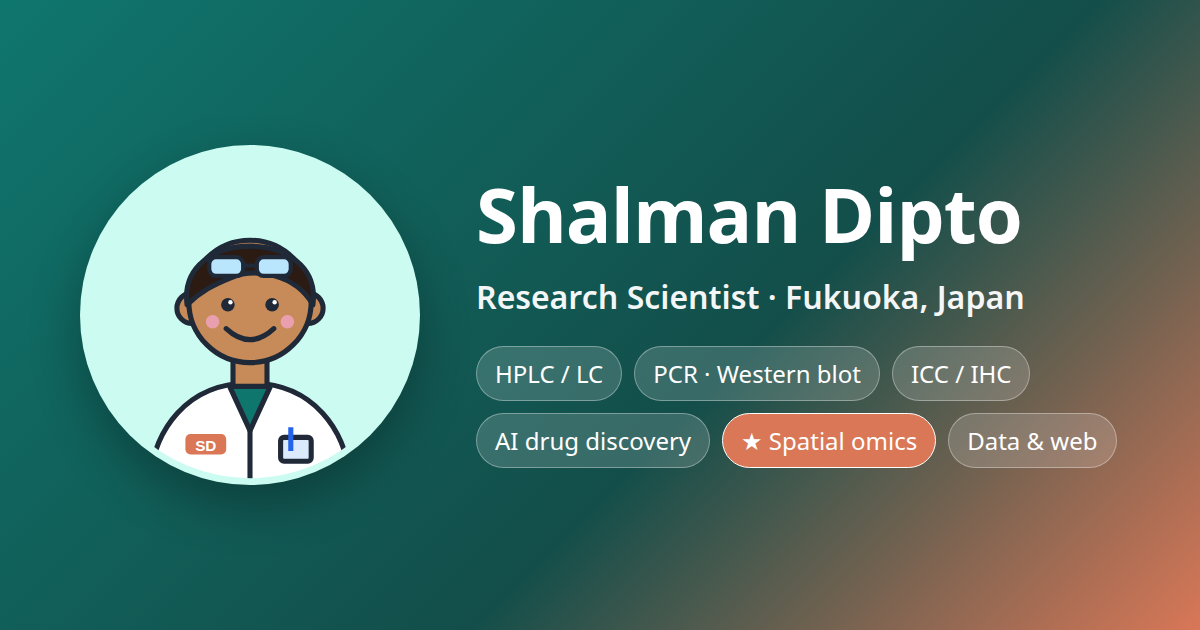
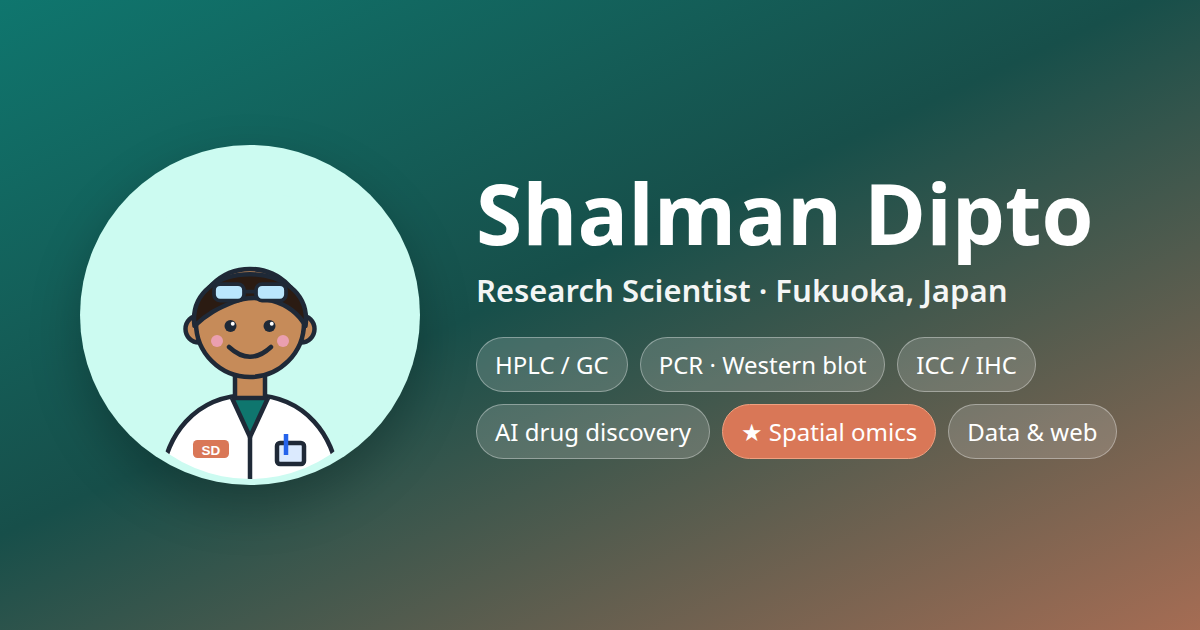
Correct analytical methods to HPLC/GC; self-introduction in English, Bangla and Japanese

diff --git a/i18n.js b/i18n.js
@@ -11,7 +11,7 @@ const TRANSLATIONS = {
     "Expertise": "দক্ষতা",
     "Work": "কাজ",
     "Experience": "অভিজ্ঞতা",
-    "Japanese intro": "জাপানি ভাষায় পরিচিতি",
+    "Introduction": "পরিচিতি",
     "Contact": "যোগাযোগ",
     "<span class=\"dot\"></span> Research Scientist · Fukuoka, Japan": "<span class=\"dot\"></span> রিসার্চ সায়েন্টিস্ট · ফুকুওকা, জাপান",
     "Hi, I'm <span class=\"grad\">Shalman Dipto</span>.": "হ্যালো, আমি <span class=\"grad\">Shalman Dipto</span>।",
@@ -45,7 +45,7 @@ const TRANSLATIONS = {
     "Samples": "নমুনা",
     "cell culture, tissue, formulations": "সেল কালচার, টিস্যু, ফর্মুলেশন",
     "Wet lab": "ওয়েট ল্যাব",
-    "HPLC / LC · PCR · western blot": "HPLC / LC · PCR · ওয়েস্টার্ন ব্লট",
+    "HPLC / GC · PCR · western blot": "HPLC / GC · PCR · ওয়েস্টার্ন ব্লট",
     "Imaging": "ইমেজিং",
     "fluorescence microscopy · ICC / IHC · spatial omics": "ফ্লুরোসেন্স মাইক্রোস্কোপি · ICC / IHC · স্প্যাটিয়াল ওমিক্স",
     "Segmentation": "সেগমেন্টেশন",
@@ -60,7 +60,7 @@ const TRANSLATIONS = {
     "Next-generation omics (spatial omics)": "নেক্সট-জেনারেশন ওমিক্স (স্প্যাটিয়াল ওমিক্স)",
     "Research assistance in collaboration with <strong><a href=\"https://omi-core.com/\" rel=\"noopener\">OmiCore Inc.</a></strong>: improving <strong>cell segmentation</strong> techniques based on the raw data, and detailed analysis across <strong>transcriptomics, proteomics, lipidomics and metabolomics</strong>.": "<strong><a href=\"https://omi-core.com/\" rel=\"noopener\">OmiCore Inc.</a></strong>-এর সাথে যৌথভাবে গবেষণা সহায়তা: কাঁচা ডেটার ভিত্তিতে <strong>সেল সেগমেন্টেশন</strong> পদ্ধতির উন্নয়ন, এবং <strong>ট্রান্সক্রিপ্টোমিক্স, প্রোটিওমিক্স, লিপিডোমিক্স ও মেটাবোলোমিক্স</strong> জুড়ে বিস্তারিত বিশ্লেষণ।",
     "Analytical chemistry": "অ্যানালিটিক্যাল কেমিস্ট্রি",
-    "Separation and quantification of compounds by <strong>HPLC</strong> and other <strong>liquid chromatography (LC)</strong> methods, following quality standards for reliable, traceable results.": "<strong>HPLC</strong> ও অন্যান্য <strong>লিকুইড ক্রোমাটোগ্রাফি (LC)</strong> পদ্ধতিতে যৌগ পৃথকীকরণ ও পরিমাণ নির্ণয় - নির্ভরযোগ্য ও যাচাইযোগ্য ফলাফলের জন্য মান-নির্দেশিকা মেনে।",
+    "Separation and quantification of compounds by <strong>HPLC</strong> (high-performance liquid chromatography) and <strong>GC</strong> (gas chromatography), following quality standards for reliable, traceable results.": "<strong>HPLC</strong> (হাই-পারফরম্যান্স লিকুইড ক্রোমাটোগ্রাফি) ও <strong>GC</strong> (গ্যাস ক্রোমাটোগ্রাফি) পদ্ধতিতে যৌগ পৃথকীকরণ ও পরিমাণ নির্ণয় - নির্ভরযোগ্য ও যাচাইযোগ্য ফলাফলের জন্য মান-নির্দেশিকা মেনে।",
     "Molecular &amp; cell biology": "মলিকুলার ও সেল বায়োলজি",
     "DNA and protein analysis: <strong>PCR</strong> with gel imaging, <strong>western blotting</strong> of phospho-proteins normalised to β-actin, and <strong>immunocytochemistry / immunohistochemistry</strong> (ICC/IHC) with multichannel fluorescence microscopy (40×, z-stacks), including image quantification.": "ডিএনএ ও প্রোটিন বিশ্লেষণ: জেল ইমেজিংসহ <strong>PCR</strong>, β-actin-এ নরমালাইজ করা ফসফো-প্রোটিনের <strong>ওয়েস্টার্ন ব্লটিং</strong>, এবং মাল্টিচ্যানেল ফ্লুরোসেন্স মাইক্রোস্কোপি (40×, z-stack) দিয়ে <strong>ইমিউনোসাইটোকেমিস্ট্রি / ইমিউনোহিস্টোকেমিস্ট্রি</strong> (ICC/IHC), ইমেজ কোয়ান্টিফিকেশনসহ।",
     "Hands-on <strong>cell culture</strong> of human and mouse lines: dose-response treatments, receptor-inhibitor studies and conditioned-medium experiments.": "মানুষ ও ইঁদুরের সেল লাইনে হাতে-কলমে <strong>সেল কালচার</strong>: ডোজ-রেসপন্স ট্রিটমেন্ট, রিসেপ্টর-ইনহিবিটর গবেষণা এবং কন্ডিশনড-মিডিয়াম পরীক্ষা।",
@@ -121,11 +121,15 @@ const TRANSLATIONS = {
     "2024 – 2025": "২০২৪ – ২০২৫",
     "Quality Control (QC) Officer": "কোয়ালিটি কন্ট্রোল (QC) অফিসার",
     "Incepta Pharmaceuticals Ltd. · Bangladesh": "Incepta Pharmaceuticals Ltd. · বাংলাদেশ",
-    "Quality control in a pharmaceutical manufacturing environment: analytical testing (HPLC / LC) and GMP documentation.": "ওষুধ উৎপাদন পরিবেশে কোয়ালিটি কন্ট্রোল: অ্যানালিটিক্যাল টেস্টিং (HPLC / LC) ও GMP ডকুমেন্টেশন।",
+    "Quality control in a pharmaceutical manufacturing environment: analytical testing (HPLC / GC) and GMP documentation.": "ওষুধ উৎপাদন পরিবেশে কোয়ালিটি কন্ট্রোল: অ্যানালিটিক্যাল টেস্টিং (HPLC / GC) ও GMP ডকুমেন্টেশন।",
     "Bachelor &amp; research<!-- ADD: years -->": "স্নাতক ও গবেষণা",
     "Bachelor in Pharmacy, then Researcher": "ফার্মেসিতে স্নাতক, তারপর গবেষক",
     "Department of Pharmacy, University of Rajshahi · Rajshahi, Bangladesh": "ফার্মেসি বিভাগ, রাজশাহী বিশ্ববিদ্যালয় · রাজশাহী, বাংলাদেশ",
     "Pharmacy degree followed by research work in the department.": "ফার্মেসিতে ডিগ্রি, তারপর একই বিভাগে গবেষণা।",
+    "Self-introduction": "আত্মপরিচয়",
+    "Nice to meet you": "পরিচিত হয়ে আনন্দিত",
+    "My name is Shalman Dipto. <span id=\"intro-career\">Since December 2026, I have been working as a Research Scientist at OmiCore Inc. in Fukuoka. Before that, I was a researcher at the <a href=\"https://www.reoken.com/\" rel=\"noopener\">Institute of Rheological Functions of Foods</a>, and before that I worked in quality control at Incepta Pharmaceuticals in Bangladesh.</span> I earned my bachelor's degree at the Department of Pharmacy, University of Rajshahi, where I also did research. My specialities are analytical chemistry (HPLC, GC), molecular biology (PCR, western blotting, immunocytochemistry / immunohistochemistry), AI-driven drug discovery, and next-generation (spatial) omics analysis in collaboration with OmiCore Inc. I look forward to working with you.": "আমার নাম Shalman Dipto। <span id=\"intro-career\">২০২৬ সালের ডিসেম্বর থেকে আমি ফুকুওকার OmiCore Inc.-এ রিসার্চ সায়েন্টিস্ট হিসেবে কাজ করছি। এর আগে আমি <a href=\"https://www.reoken.com/\" rel=\"noopener\">Institute of Rheological Functions of Foods</a>-এ গবেষক ছিলাম, আর তারও আগে বাংলাদেশের Incepta Pharmaceuticals-এ কোয়ালিটি কন্ট্রোলে কাজ করেছি।</span> রাজশাহী বিশ্ববিদ্যালয়ের ফার্মেসি বিভাগ থেকে স্নাতক ডিগ্রি অর্জন করেছি এবং সেখানে গবেষণাতেও যুক্ত ছিলাম। আমার বিশেষজ্ঞতার ক্ষেত্র হলো অ্যানালিটিক্যাল কেমিস্ট্রি (HPLC, GC), মলিকুলার বায়োলজি (PCR, ওয়েস্টার্ন ব্লটিং, ইমিউনোসাইটোকেমিস্ট্রি / ইমিউনোহিস্টোকেমিস্ট্রি), এআই-ভিত্তিক ওষুধ আবিষ্কার, এবং OmiCore Inc.-এর সাথে যৌথ গবেষণায় নেক্সট-জেনারেশন (স্প্যাটিয়াল) ওমিক্স বিশ্লেষণ। আপনার সাথে কাজ করার অপেক্ষায় রইলাম।",
+    "@introIncoming": "বর্তমানে আমি <a href=\"https://www.reoken.com/\" rel=\"noopener\">Institute of Rheological Functions of Foods</a>-এ গবেষক হিসেবে কাজ করছি, এবং ২০২৬ সালের ডিসেম্বর থেকে ফুকুওকার OmiCore Inc.-এ রিসার্চ সায়েন্টিস্ট হিসেবে যোগ দেব। এর আগে বাংলাদেশের Incepta Pharmaceuticals-এ কোয়ালিটি কন্ট্রোলে কাজ করেছি।",
     "Happy to connect with fellow researchers and anyone interested in omics, image analysis or drug discovery.": "গবেষক সহকর্মী এবং ওমিক্স, ইমেজ বিশ্লেষণ বা ওষুধ আবিষ্কারে আগ্রহী যে কারও সাথে যুক্ত হতে পেরে আনন্দিত হব।",
     "Email me": "ইমেইল করুন",
     "© <span id=\"year\">2026</span> Shalman Dipto · Fukuoka, Japan · Built with plain HTML, CSS &amp; JS": "© <span id=\"year\">2026</span> Shalman Dipto · ফুকুওকা, জাপান · সাধারণ HTML, CSS ও JS দিয়ে তৈরি"
@@ -138,7 +142,7 @@ const TRANSLATIONS = {
     "Expertise": "専門分野",
     "Work": "実績",
     "Experience": "経歴",
-    "Japanese intro": "自己紹介",
+    "Introduction": "自己紹介",
     "Contact": "お問い合わせ",
     "<span class=\"dot\"></span> Research Scientist · Fukuoka, Japan": "<span class=\"dot\"></span> 研究員 · 日本・福岡",
     "Hi, I'm <span class=\"grad\">Shalman Dipto</span>.": "こんにちは、<span class=\"grad\"><span class=\"nowrap\">シャルマン</span>・<span class=\"nowrap\">ディプト</span></span>です。",
@@ -172,7 +176,7 @@ const TRANSLATIONS = {
     "Samples": "サンプル",
     "cell culture, tissue, formulations": "細胞培養・組織・製剤",
     "Wet lab": "ウェットラボ",
-    "HPLC / LC · PCR · western blot": "HPLC / LC · PCR · ウェスタンブロット",
+    "HPLC / GC · PCR · western blot": "HPLC / GC · PCR · ウェスタンブロット",
     "Imaging": "イメージング",
     "fluorescence microscopy · ICC / IHC · spatial omics": "蛍光顕微鏡 · ICC / IHC · 空間オミクス",
     "Segmentation": "セグメンテーション",
@@ -187,7 +191,7 @@ const TRANSLATIONS = {
     "Next-generation omics (spatial omics)": "次世代オミクス（空間オミクス）",
     "Research assistance in collaboration with <strong><a href=\"https://omi-core.com/\" rel=\"noopener\">OmiCore Inc.</a></strong>: improving <strong>cell segmentation</strong> techniques based on the raw data, and detailed analysis across <strong>transcriptomics, proteomics, lipidomics and metabolomics</strong>.": "<strong><a href=\"https://omi-core.com/\" rel=\"noopener\">OmiCore Inc.</a></strong>との共同研究による研究支援：生データに基づく<strong>細胞セグメンテーション</strong>手法の改良、および<strong>トランスクリプトミクス・プロテオミクス・リピドミクス・メタボロミクス</strong>にわたる詳細な解析。",
     "Analytical chemistry": "分析化学",
-    "Separation and quantification of compounds by <strong>HPLC</strong> and other <strong>liquid chromatography (LC)</strong> methods, following quality standards for reliable, traceable results.": "<strong>HPLC</strong>をはじめとする<strong>液体クロマトグラフィー（LC）</strong>による化合物の分離・定量。品質基準に沿って、信頼性とトレーサビリティのある結果を出します。",
+    "Separation and quantification of compounds by <strong>HPLC</strong> (high-performance liquid chromatography) and <strong>GC</strong> (gas chromatography), following quality standards for reliable, traceable results.": "<strong>HPLC</strong>（高速液体クロマトグラフィー）と<strong>GC</strong>（ガスクロマトグラフィー）による化合物の分離・定量。品質基準に沿って、信頼性とトレーサビリティのある結果を出します。",
     "Molecular &amp; cell biology": "分子生物学・細胞生物学",
     "DNA and protein analysis: <strong>PCR</strong> with gel imaging, <strong>western blotting</strong> of phospho-proteins normalised to β-actin, and <strong>immunocytochemistry / immunohistochemistry</strong> (ICC/IHC) with multichannel fluorescence microscopy (40×, z-stacks), including image quantification.": "DNA・タンパク質解析：ゲル撮影を含む<strong>PCR</strong>、β-アクチンで正規化したリン酸化タンパク質の<strong>ウェスタンブロット</strong>、多チャンネル蛍光顕微鏡（40×、Zスタック）による<strong>免疫細胞化学・免疫組織化学</strong>（ICC/IHC）と画像定量。",
     "Hands-on <strong>cell culture</strong> of human and mouse lines: dose-response treatments, receptor-inhibitor studies and conditioned-medium experiments.": "ヒト・マウス細胞株の<strong>細胞培養</strong>の実務経験：用量反応試験、受容体阻害剤試験、馴化培地を用いた実験。",
@@ -248,11 +252,15 @@ const TRANSLATIONS = {
     "2024 – 2025": "2024年 – 2025年",
     "Quality Control (QC) Officer": "品質管理（QC）担当",
     "Incepta Pharmaceuticals Ltd. · Bangladesh": "Incepta Pharmaceuticals Ltd. · バングラデシュ",
-    "Quality control in a pharmaceutical manufacturing environment: analytical testing (HPLC / LC) and GMP documentation.": "医薬品製造現場での品質管理：分析試験（HPLC / LC）とGMP文書管理。",
+    "Quality control in a pharmaceutical manufacturing environment: analytical testing (HPLC / GC) and GMP documentation.": "医薬品製造現場での品質管理：分析試験（HPLC / GC）とGMP文書管理。",
     "Bachelor &amp; research<!-- ADD: years -->": "学士課程・研究",
     "Bachelor in Pharmacy, then Researcher": "薬学士取得、その後研究員",
     "Department of Pharmacy, University of Rajshahi · Rajshahi, Bangladesh": "ラジシャヒ大学 薬学部 · バングラデシュ・ラジシャヒ",
     "Pharmacy degree followed by research work in the department.": "薬学の学位を取得後、同学部で研究に従事。",
+    "Self-introduction": "自己紹介",
+    "Nice to meet you": "はじめまして",
+    "My name is Shalman Dipto. <span id=\"intro-career\">Since December 2026, I have been working as a Research Scientist at OmiCore Inc. in Fukuoka. Before that, I was a researcher at the <a href=\"https://www.reoken.com/\" rel=\"noopener\">Institute of Rheological Functions of Foods</a>, and before that I worked in quality control at Incepta Pharmaceuticals in Bangladesh.</span> I earned my bachelor's degree at the Department of Pharmacy, University of Rajshahi, where I also did research. My specialities are analytical chemistry (HPLC, GC), molecular biology (PCR, western blotting, immunocytochemistry / immunohistochemistry), AI-driven drug discovery, and next-generation (spatial) omics analysis in collaboration with OmiCore Inc. I look forward to working with you.": "シャルマン・ディプトと申します。<span id=\"intro-career\">2026年12月より、福岡のオミコア株式会社（OmiCore Inc.）で研究員として働いております。以前は<a href=\"https://www.reoken.com/\" rel=\"noopener\">レオロジー機能食品研究所</a>で研究員として、その前はバングラデシュのIncepta Pharmaceuticalsで品質管理担当として勤務しておりました。</span>ラジシャヒ大学薬学部で学士号を取得し、研究にも携わりました。専門は分析化学（HPLC・GC）、分子生物学（PCR、ウェスタンブロット、免疫細胞化学・免疫組織化学）、AIを活用した創薬研究、そしてOmiCore Inc.との共同研究による次世代オミクス（空間オミクス）解析です。どうぞよろしくお願いいたします。",
+    "@introIncoming": "現在は<a href=\"https://www.reoken.com/\" rel=\"noopener\">レオロジー機能食品研究所</a>で研究員として勤務しており、2026年12月より福岡のオミコア株式会社（OmiCore Inc.）に研究員として着任予定です。その前は、バングラデシュのIncepta Pharmaceuticalsで品質管理担当として勤務しておりました。",
     "Happy to connect with fellow researchers and anyone interested in omics, image analysis or drug discovery.": "研究者の方や、オミクス・画像解析・創薬に関心のある方とのつながりを歓迎します。",
     "Email me": "メールを送る",
     "© <span id=\"year\">2026</span> Shalman Dipto · Fukuoka, Japan · Built with plain HTML, CSS &amp; JS": "© <span id=\"year\">2026</span> Shalman Dipto · 福岡 · HTML・CSS・JSのみで制作"

diff --git a/index.html b/index.html
@@ -30,7 +30,7 @@
       <a href="#research">Expertise</a>
       <a href="#work">Work</a>
       <a href="#experience">Experience</a>
-      <a href="#japanese">Japanese intro</a>
+      <a href="#intro">Introduction</a>
       <a class="nav-cta" href="#contact">Contact</a>
     </nav>
     <div class="lang-switch" role="group" aria-label="Language">
@@ -79,7 +79,7 @@
       <p class="muted center">I can work at every step - from the bench to the final figure.</p>
       <ol class="pipeline">
         <li class="reveal"><img src="assets/step-sample.svg" alt="" width="120" height="100"><b>Samples</b><span>cell culture, tissue, formulations</span></li>
-        <li class="reveal"><img src="assets/step-wetlab.svg" alt="" width="120" height="100"><b>Wet lab</b><span>HPLC / LC · PCR · western blot</span></li>
+        <li class="reveal"><img src="assets/step-wetlab.svg" alt="" width="120" height="100"><b>Wet lab</b><span>HPLC / GC · PCR · western blot</span></li>
         <li class="reveal"><img src="assets/step-imaging.svg" alt="" width="120" height="100"><b>Imaging</b><span>fluorescence microscopy · ICC / IHC · spatial omics</span></li>
         <li class="reveal hl"><img src="assets/step-segment.svg" alt="" width="120" height="100"><b>Segmentation</b><span>better cell outlines from raw data</span></li>
         <li class="reveal hl"><img src="assets/step-omics.svg" alt="" width="120" height="100"><b>Multi-omics</b><span>transcripts · proteins · lipids · metabolites</span></li>
@@ -168,9 +168,9 @@
         <article class="card reveal">
           <img class="illus" src="assets/illus-hplc.svg" alt="HPLC instrument and chromatogram" width="320" height="170" loading="lazy">
           <h3>Analytical chemistry</h3>
-          <p>Separation and quantification of compounds by <strong>HPLC</strong> and other <strong>liquid chromatography (LC)</strong>
-            methods, following quality standards for reliable, traceable results.</p>
-          <ul class="tags"><li>HPLC</li><li>LC</li><li>Quantitative analysis</li><li>Quality control</li></ul>
+          <p>Separation and quantification of compounds by <strong>HPLC</strong> (high-performance liquid chromatography)
+            and <strong>GC</strong> (gas chromatography), following quality standards for reliable, traceable results.</p>
+          <ul class="tags"><li>HPLC</li><li>GC</li><li>Quantitative analysis</li><li>Quality control</li></ul>
         </article>
         <article class="card reveal">
           <img class="illus" src="assets/illus-molbio.svg" alt="PCR gel, western blot and fluorescent cells" width="320" height="170" loading="lazy">
@@ -200,7 +200,7 @@
       <div class="cards three">
         <article class="card reveal">
           <h3>🧪 Lab</h3>
-          <ul class="tags"><li>HPLC / LC</li><li>PCR &amp; agarose gels</li><li>Western blot</li><li>ICC / IF / IHC</li><li>Fluorescence microscopy</li><li>Cell culture</li><li>GMP / QC documentation</li></ul>
+          <ul class="tags"><li>HPLC / GC</li><li>PCR &amp; agarose gels</li><li>Western blot</li><li>ICC / IF / IHC</li><li>Fluorescence microscopy</li><li>Cell culture</li><li>GMP / QC documentation</li></ul>
         </article>
         <article class="card reveal">
           <h3>📊 Data &amp; figures</h3>
@@ -294,7 +294,7 @@
           <span class="when">2024 – 2025</span>
           <h3>Quality Control (QC) Officer</h3>
           <p class="org">Incepta Pharmaceuticals Ltd. · Bangladesh</p>
-          <p>Quality control in a pharmaceutical manufacturing environment: analytical testing (HPLC / LC) and GMP documentation.</p>
+          <p>Quality control in a pharmaceutical manufacturing environment: analytical testing (HPLC / GC) and GMP documentation.</p>
           <!-- ADD: months, city; check the methods line above matches what you really did -->
         </li>
         <li class="reveal">
@@ -320,16 +320,19 @@
       <p class="muted center small">Your data stays private: files are used only for your project and deleted after delivery on request.</p>
     </section>
 
-    <!-- JAPANESE -->
-    <section id="japanese" class="section alt" lang="ja">
-      <p class="kicker">自己紹介</p>
-      <h2>はじめまして</h2>
+    <!-- SELF-INTRODUCTION (English here; Bangla and Japanese come from i18n.js).
+         The part in #intro-career switches automatically on 1 Dec 2026, see script.js. -->
+    <section id="intro" class="section alt">
+      <p class="kicker">Self-introduction</p>
+      <h2>Nice to meet you</h2>
       <div class="card jp reveal">
-        <p>シャルマン・ディプトと申します。2026年12月より、福岡のオミコア株式会社（OmiCore Inc.）で研究員として働いております。
-          以前は<a href="https://www.reoken.com/" rel="noopener">レオロジー機能食品研究所</a>で研究員として、その前はバングラデシュのIncepta Pharmaceuticalsで品質管理担当として勤務しておりました。
-          ラジシャヒ大学薬学部で学士号を取得し、研究にも携わりました。
-          専門は分析化学（HPLC・LC）、分子生物学（PCR、ウェスタンブロット、免疫細胞化学・免疫組織化学）、AIを活用した創薬研究、そしてOmiCore Inc.との共同研究による次世代オミクス（空間オミクス）解析です。
-          どうぞよろしくお願いいたします。</p>
+        <p>My name is Shalman Dipto. <span id="intro-career">Since December 2026, I have been working as a Research Scientist at OmiCore Inc. in Fukuoka.
+          Before that, I was a researcher at the <a href="https://www.reoken.com/" rel="noopener">Institute of Rheological Functions of Foods</a>,
+          and before that I worked in quality control at Incepta Pharmaceuticals in Bangladesh.</span>
+          I earned my bachelor's degree at the Department of Pharmacy, University of Rajshahi, where I also did research.
+          My specialities are analytical chemistry (HPLC, GC), molecular biology (PCR, western blotting, immunocytochemistry / immunohistochemistry),
+          AI-driven drug discovery, and next-generation (spatial) omics analysis in collaboration with OmiCore Inc.
+          I look forward to working with you.</p>
       </div>
     </section>
 

diff --git a/script.js b/script.js
@@ -30,8 +30,8 @@ const I18N_SELECTOR = [
   ".contact-box > p", ".contact-box .btn", ".footer p",
 ].join(", ");
 const norm = html => html.replace(/\s+/g, " ").trim();
-// Skip hidden sections and the Japanese self-introduction (it stays Japanese in every language).
-const i18nEls = [...document.querySelectorAll(I18N_SELECTOR)].filter(el => !el.closest("[hidden], #japanese"));
+// Skip hidden sections.
+const i18nEls = [...document.querySelectorAll(I18N_SELECTOR)].filter(el => !el.closest("[hidden]"));
 const english = new Map(i18nEls.map(el => [el, norm(el.innerHTML)]));
 const englishTitle = document.title;
 const langButtons = document.querySelectorAll(".lang-switch button");
@@ -56,6 +56,11 @@ function updateDynamicText(t) {
   if (new Date() < START) {
     document.getElementById("current-role").textContent = t("@incomingRole") || "Incoming Research Scientist (from Dec 2026)";
     document.getElementById("omicore-dates").textContent = t("@incomingDates") || "From Dec 2026";
+    // Self-introduction: "currently at the Institute, joining OmiCore in December".
+    document.getElementById("intro-career").innerHTML = t("@introIncoming") ||
+      'I am currently a researcher at the <a href="https://www.reoken.com/" rel="noopener">Institute of Rheological Functions of Foods</a>, ' +
+      "and from December 2026 I will join OmiCore Inc. in Fukuoka as a Research Scientist. " +
+      "Before that, I worked in quality control at Incepta Pharmaceuticals in Bangladesh.";
   }
   document.getElementById("year").textContent = new Date().getFullYear();
 }
